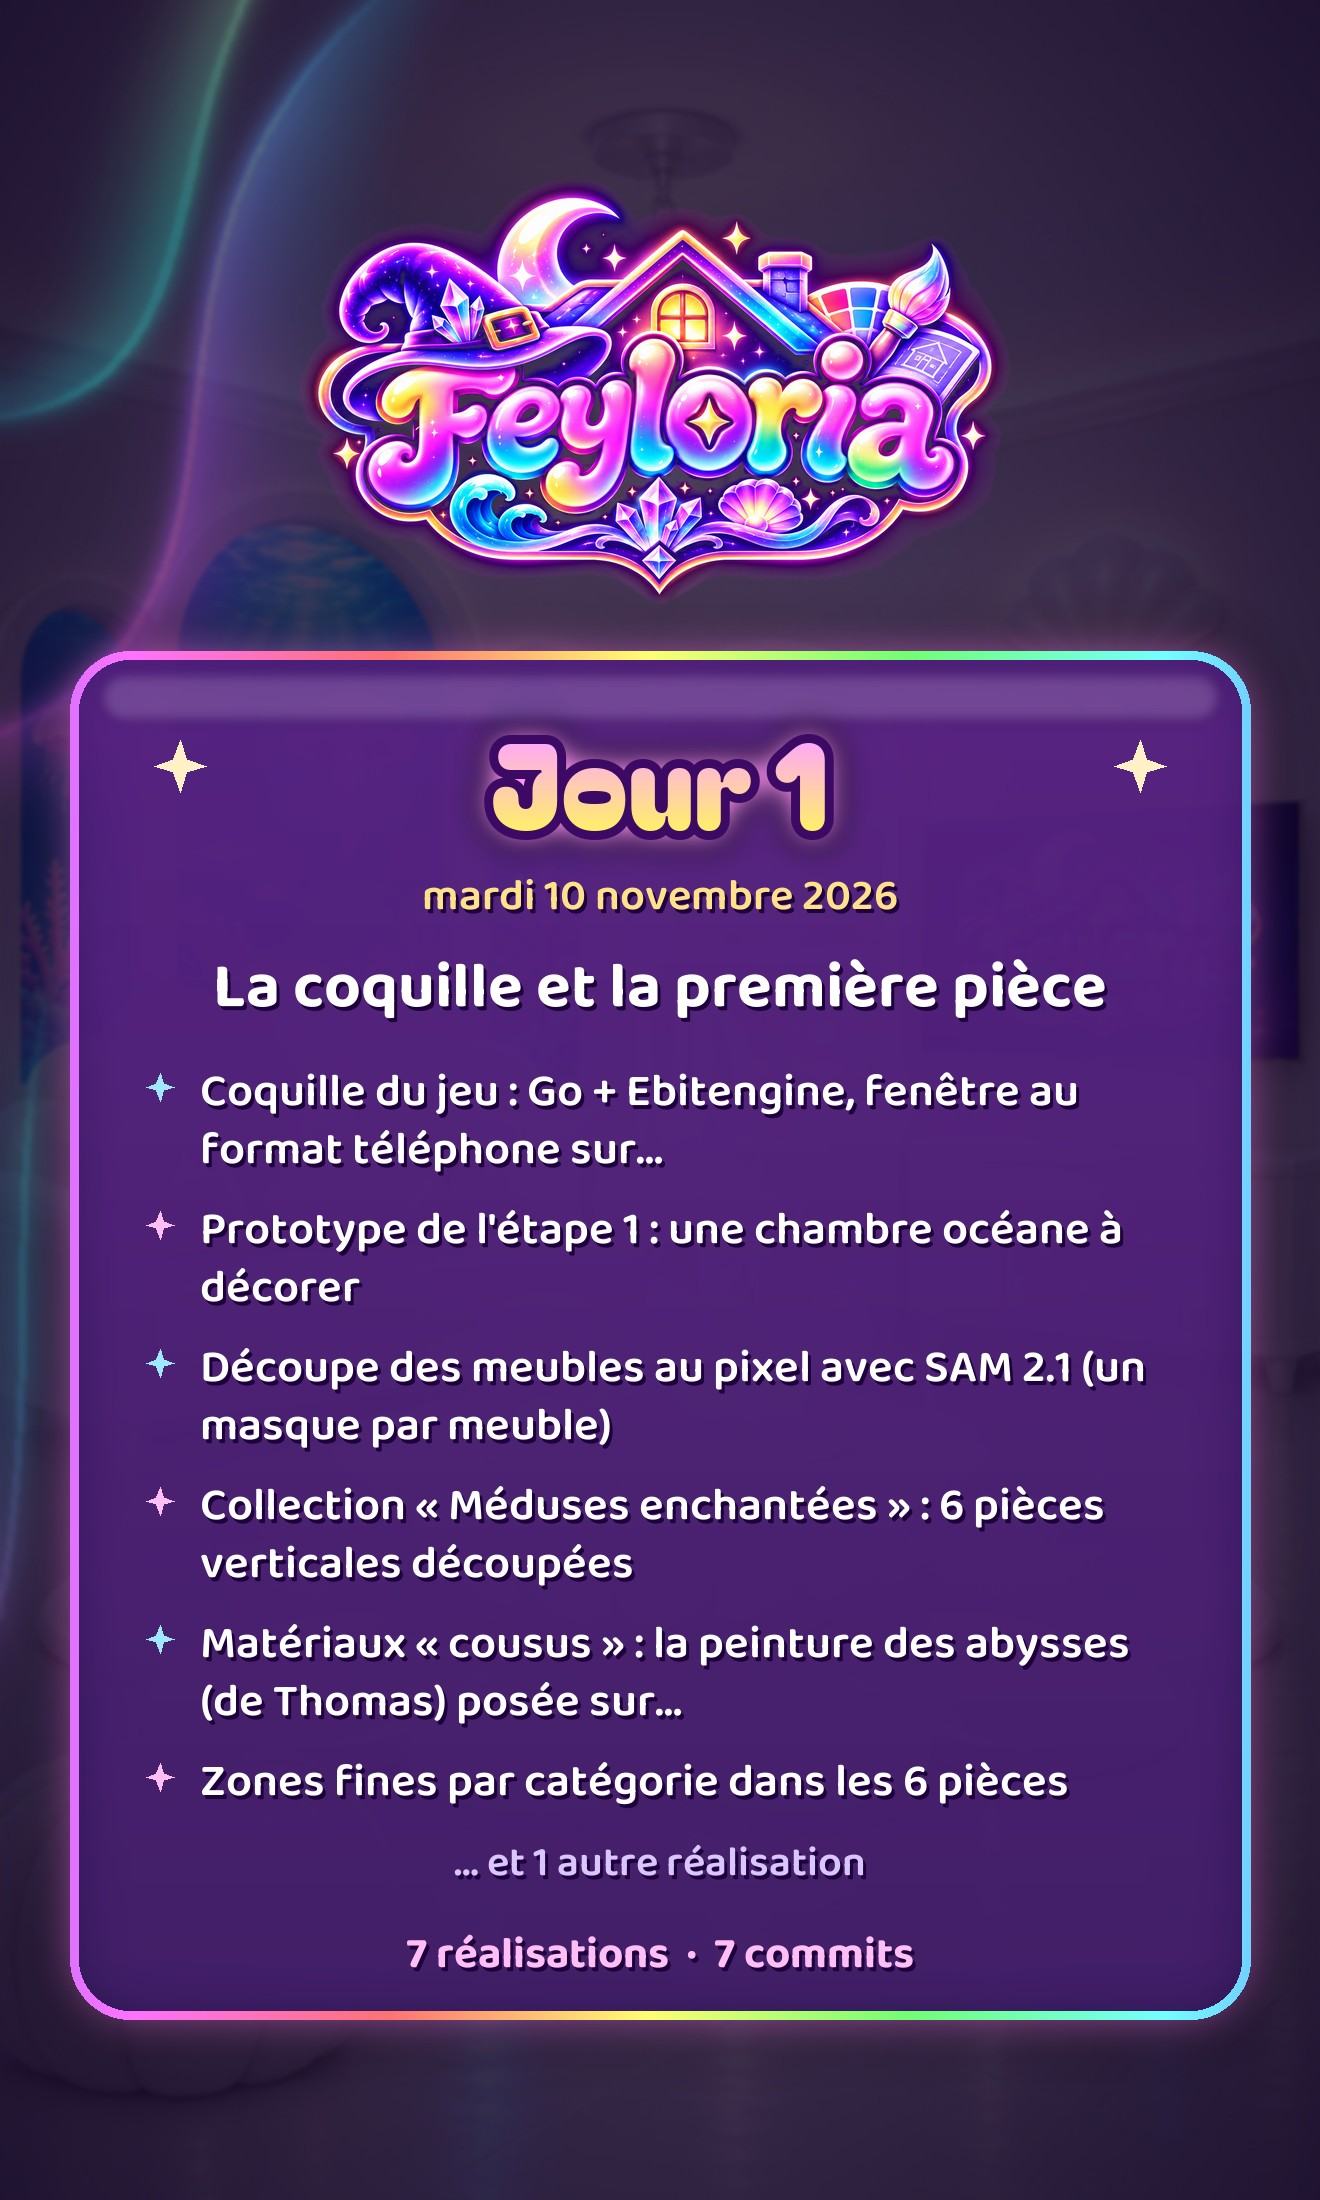
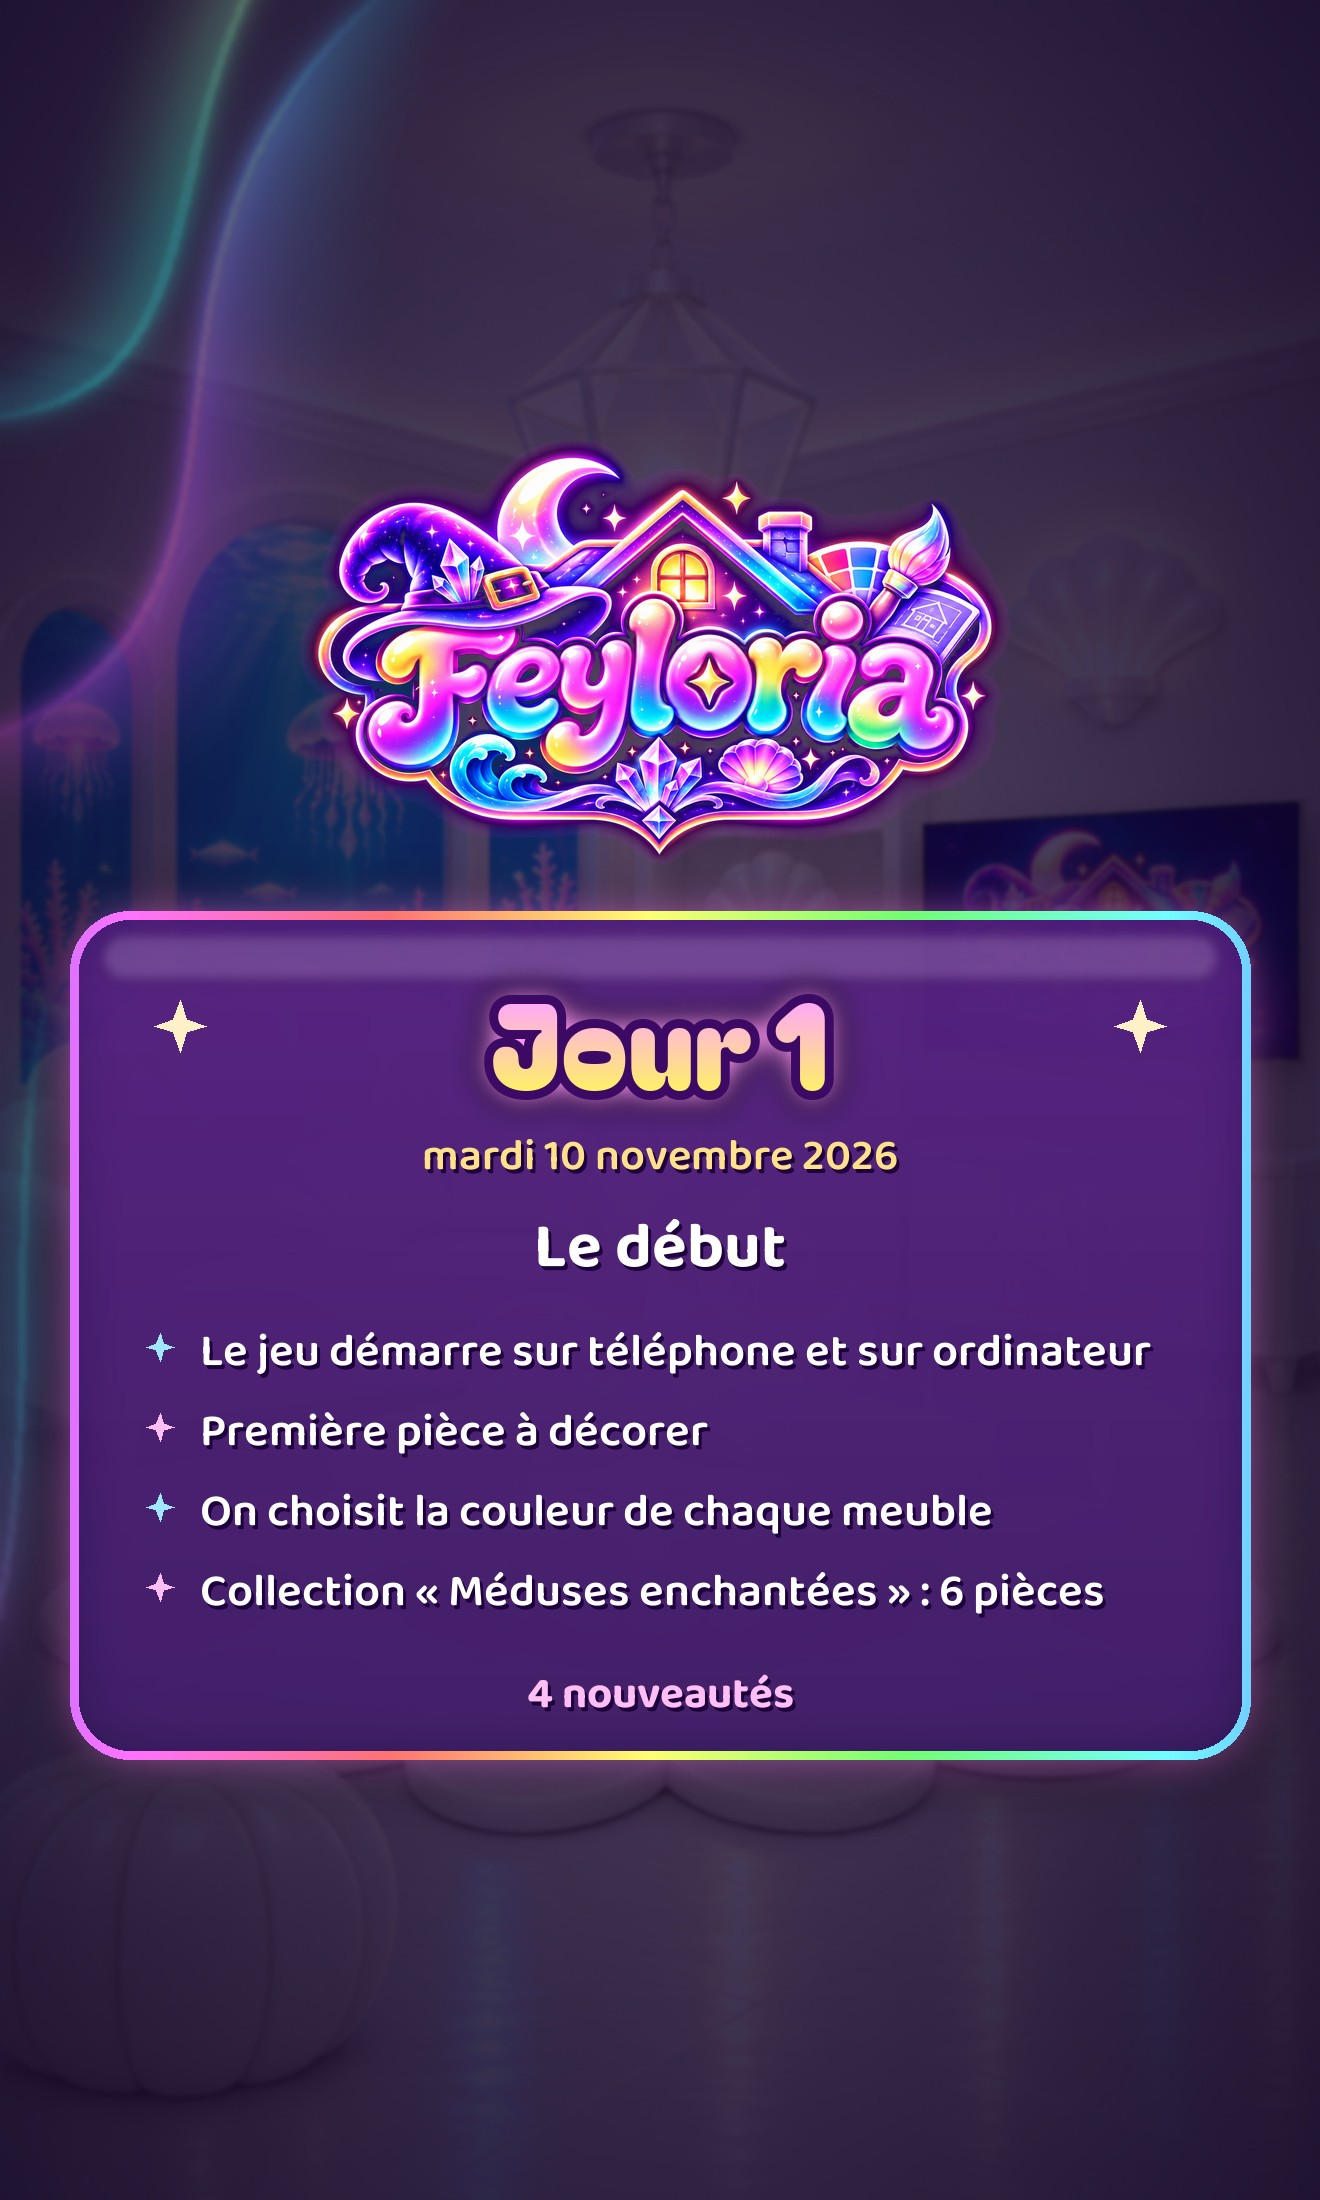
🧹 Plus de tâche planifiée sur GitHub : le journal est poussé depuis le Mac ; plus de commits sur le site

diff --git a/journal/JOURNAL.md b/journal/JOURNAL.md
@@ -1,168 +1,76 @@
 # Journal de bord de Feyloria
 
-Ce qui se fait sur le projet, jour par jour, depuis le premier commit (mardi 10 novembre 2026). Les jours suivent l'heure de l'Est. Ce fichier est public : il alimente le site de suivi (dépôt `feyloria-suivi`, mis à jour une fois par jour).
+Ce qui avance sur le jeu, jour par jour, depuis le début (mardi 10 novembre 2026). Écrit pour tout le monde : quelques mots par nouveauté, rien de technique. Ce journal alimente le site de suivi.
 
-Format, pour que le site le lise :
+## 2026-11-10 — Le début
 
-- une section par jour, `## AAAA-MM-JJ — titre du jour` ;
-- un paragraphe de résumé ;
-- `### Fait`, `### Commencé`, `### À suivre` : des puces, chacune commençant par l'heure quand on la connaît (`- 21:10 — …`) ;
-- `Commits : N` sur sa propre ligne.
-
-## 2026-11-10 — La coquille et la première pièce
-
-Le projet démarre le soir : un jeu mobile en Go avec Ebitengine, qui tourne sur macOS et iOS. Dans la même soirée, on décore déjà une première chambre océane : les meubles sont découpés au pixel, puis recolorés en gardant la nacre du rendu blanc.
+Premier soir : le jeu existe, et on peut déjà décorer une pièce.
 
 ### Fait
 
-- 21:10 — Coquille du jeu : Go + Ebitengine, fenêtre au format téléphone sur Mac, build iOS.
-- 21:51 — Prototype de l'étape 1 : une chambre océane à décorer.
-- 22:08 — Découpe des meubles au pixel avec SAM 2.1 (un masque par meuble).
-- 22:22 — Recoloration en carte de dégradé, avec la nacre du rendu blanc.
-- 23:04 — Collection « Méduses enchantées » : 6 pièces verticales découpées.
-- 23:08 — Matériaux « cousus » : la peinture des abysses (de Thomas) posée sur un meuble et ajustable au doigt.
-- 23:47 — Zones fines par catégorie dans les 6 pièces.
+- Le jeu démarre sur téléphone et sur ordinateur
+- Première pièce à décorer
+- On choisit la couleur de chaque meuble
+- Collection « Méduses enchantées » : 6 pièces
 
-Commits : 7
+## 2026-11-11 — Le Palais des méduses
 
-## 2026-11-11 — Le Palais des méduses prend forme
-
-Une journée sur la qualité de la décoration et sur l'interface. Les masques deviennent précis (un par objet, aucun débordement) et la couleur passe en OKLab. Le premier look du Palais des méduses arrive, avec ses bulles de verre, son menu et Aria. Le moteur de rendu passe au GPU, et le jeu vise les 60 images/s sur iPhone.
+La décoration devient précise et belle, et le jeu reçoit son premier look.
 
 ### Fait
 
-- 00:26 — Salon : original intact, rendu natif, couleur OKLab, masques précis ; un masque par objet.
-- 00:41 — Les pièces commencent blanches ; « Nacre » est l'original ; tout remettre en blanc.
-- 00:56 — Panneau des zones en bulles (ZonePanel), 12 zones regroupées.
-- 07:28 — Lustre méduse découpé finement (cloche, festons, tentacules).
-- 09:47 — Palette unique de 56 couleurs ; recoloration à la résolution de l'écran.
-- 10:19 — Chambre : 10 zones découpées.
-- 11:09 — Interface du projet visuel : thèmes de collection, bulles, menu et Aria.
-- 11:29 — Les pièces et la collection sont décrites par des manifestes : une pièce s'ajoute sans code.
-- 12:56 — Peintre GPU : formes arrondies par distance signée, banc de mesure.
-- 13:08 — Pièces préparées en arrière-plan, voisines prêtes avant d'y aller ; mémoire bornée.
-- 13:11 — Bus d'événements du cœur, pour brancher les succès plus tard.
-- 13:18 — Banc de mesure sur iPhone (`make ios-bench`).
-- 14:50 — Menu des couleurs v2 en plein écran, motif posé avec Valider.
-- 15:54 — Zonage avec ChatGPT et découpe automatique ; déco à l'individuel, murs et plafond réunis.
-- 17:32 — Palais des méduses : 14 pièces.
-- 23:12 — Vérification automatique des images Midjourney (format, clarté, blanc chaud, coins sombres, objets déjà colorés).
-- 23:18 — Prompt Midjourney complet à chaque fois, tiré du zonage.
-- 23:38 — Nouvelle chambre de la reine méduse (Midjourney), 22 zones.
+- Couleurs plus fidèles, sans débordement
+- Chaque pièce commence toute blanche
+- Look du Palais des méduses
+- Aria, la mascotte, apparaît
+- Jeu plus fluide sur téléphone
+- 14 pièces dans la collection
 
-Commits : 38
+## 2026-11-12 — Les matières
 
-## 2026-11-12 — Les matières et les styles
-
-Les couleurs gagnent du relief, et les matières font leur entrée : pierres, métaux, marbres, velours, mousses, bois. Elles suivent la forme des meubles, et les sols se posent en perspective. Les premiers styles « dessinés » arrivent : une pièce redessinée par l'IA d'images dans une matière qu'une texture ne peut pas imiter. Le soir, Naomi apporte la collection coquillage, qui deviendra le Palais de Nacre.
+Les meubles peuvent maintenant prendre des matières, pas seulement des couleurs.
 
 ### Fait
 
-- 00:05 — Couleurs avec du relief : contraste selon le blanc de chaque zone.
-- 00:36 — Format des pièces fixé à 3:5 (1320 × 2200), la pièce entière au-dessus du panneau.
-- 01:13 — 12 nouveaux matériaux : pierres, métaux, marbres, velours ; mousse de corail en relief.
-- 01:18 — Logo Feyloria à l'ouverture, icône de l'app.
-- 12:10 — 3 mousses (sauvage, vive, tendre), matières sans grésillement.
-- 12:52 — Sols et tapis en perspective dans les 14 pièces.
-- 13:46 — Chambre du récif : le lit dessiné en mousse par Midjourney (« Mousse vivante »).
-- 14:30 — Section Styles au menu ; Salon des vagues en hologramme, bois et pierre.
-- 15:21 — Outil « répliquer un style » : extraire, comparer et répliquer un style dessiné dans toutes les pièces.
-- 15:35 — 9 matières tirées des styles de la Salle de jeux (chrome, cuivre rosé, marbre craquelé, fourrure, nacre irisée…).
-- 16:02 — Bois flotté par catégorie : sièges, meubles, textiles et décorations ont chacun leur texture.
-- 17:53 — Salle de bain des perles, 17ᵉ pièce.
-- 18:05 — « Mes pièces » : chaque pièce soumise est gardée, à voir en grand et à télécharger dans Photos.
-- 18:55 — Textures recréées depuis les originaux en une passe (`rebuild.sh`), à leur taille réelle.
-- 20:37 — Menu des couleurs : 5 par rangée, familles, catégories repliables.
-- 20:56 — Nouveau logo à l'ouverture, nouvelle icône de l'app.
-- 22:43 — Collection coquillage de Naomi : salle de bain, salon, cuisine, salle à manger, chambre des maîtres, bureau.
+- Bois, pierre, marbre, velours, mousse, métal
+- Sols et tapis en perspective
+- Premiers styles dessinés (hologramme, bois flotté…)
+- Logo et icône du jeu
+- « Mes pièces » : on garde ses créations
+- Nouvelle collection : le Palais de Nacre
 
-Commits : 47
+## 2026-11-13 — Tout le jeu autour
 
-## 2026-11-13 — Le jeu autour de la décoration
-
-La plus grosse journée. Autour de la décoration, tout le jeu se construit :
-- défis quotidiens sur 14 jours ;
-- boutique, éclats et géodes, pass du mois et abonnement VIP ;
-- profil, avatars et Aria ;
-- collection de cartes, équipes du monde ;
-- utilisations limitées des styles.
-
-Le thème Nuit magique de Thomas arrive, puis la direction visuelle Aurore. Le Palais de Nacre reçoit une quinzaine de styles exclusifs dessinés. Le soir, le profil du joueur devient un vrai coffre scellé et sauvegardé à chaque achat, et les pages s'assemblent à partir de composants communs.
+Grosse journée : tout ce qui entoure la décoration arrive.
 
 ### Fait
 
-- 00:54 — Page Défis : une carte par pièce avec JOUER ; collection Palais de Nacre et sa couleur holographique.
-- 01:25 — Boutique (factice) : paquets d'éclats et offres groupées.
-- 12:08 — Profil : avatar holographique, niveau, statistiques, Mes pièces ; photo de profil avec modération.
-- 14:47 — Style Palais irisé, tiré de l'image de référence.
-- 14:54 — Palettes premium en boutique et dans le pass VIP.
-- 14:58 — Aria, la mascotte, son coffret et ses 5 looks dans le profil.
-- 15:04 — Pass « Réussite du Mois » : 50 niveaux, VIP et gratuit, section Gold.
-- 15:32 — Collection de cartes (paquets, séries, prix) et Équipes du monde, avec leurs défis de la semaine.
-- 16:58 — Thème Nuit magique de Thomas : ciel étoilé, néons, polices Baloo 2 et Bagel Fat One.
-- 17:01 — Les gemmes deviennent des géodes.
-- 17:44 — Se connecter avec Apple, profil dans iCloud (à activer).
-- 18:09 — Utilisations des styles : 4 au départ, rachetables en éclats, dépensées seulement à la soumission.
-- 18:20 — Défis sur 14 jours, un par jour, minuit heure de l'Est ; pack de fin de collection pour les défis manqués.
-- 19:47 — Tableau des récompenses en 5 paliers, avec un effet animé sur chacun.
-- 20:21 — Interface plus grande partout (largeur logique 500).
-- 20:37 — Police Kavoon pour le Palais de Nacre.
-- 20:54 — Avatars du jeu à la place des photos (Aria Trans par défaut, puis Sirya, Warma).
-- 21:00 — Styles dessinés exclusifs : Classique réaliste, Forêt enchantée, Palais de givre, Sirène, Bonbon gommeux, Goth velours, Queer, Marin bleu, Industriel violet, Douceur tamisée, Automne, Pierre glacée, Cozy bois, Nature douce, Luxe intense, Château de pierre, Rouge velours.
-- 23:07 — Look nacré clair du Palais de Nacre.
-- 23:22 — Direction Aurore sur la page Défis (fond vivant, boutons en relief, carte irisée, menu ondulé), « Réduire les animations ».
-- 22:26 — Profil du joueur : tout ce qu'il possède, scellé (HMAC) et sauvegardé à chaque achat.
-- 22:42 — Composants d'interface communs (cartes, boutons, tons), boutons qui s'enfoncent sous le doigt.
+- Un défi par jour pendant 14 jours
+- Boutique, éclats et géodes
+- Pass du mois et abonnement VIP
+- Profil, avatars et looks d'Aria
+- Collection de cartes
+- Équipes du monde
+- Une quinzaine de styles exclusifs
+- Nouveau look : Aurore
 
-Commits : 92
+## 2026-11-14 — Le multijoueur
 
-## 2026-11-14 — Le serveur dans le jeu, le multijoueur jouable
-
-Dans la nuit, l'interface Aurore s'étend à toutes les pages ; les créatures du Palais de Nacre et leurs cartes officielles arrivent.
-
-Le matin, les specs de peaufinage des systèmes sont approuvées, et les lots 1 à 5 sont faits dans la journée :
-- le serveur complet roule dans l'app, écrit en commandes Lambda pour passer sur AWS plus tard sans rien réécrire ;
-- les classements sont en pourcentages, avec une population de joueurs simulés ;
-- les duels se votent en paquets ;
-- les likes sociaux ont leur budget quotidien ;
-- l'accueil propose en ligne ou hors ligne, et les parties hors ligne s'exportent et s'importent ;
-- les achats sont vérifiés.
-
-L'après-midi est consacrée à la fluidité (60 images/s sur l'élan de la boutique) et à l'ouverture de ce journal de bord.
+Le jeu devient multijoueur, et on ouvre ce journal.
 
 ### Fait
 
-- 00:17 — Créatures Darium, Nacrelle, Floraé, Sylirus, Fernestra ; avatar Aria Galaxy.
-- 00:25 — Interface Aurore sur toutes les pages ; le Palais de Nacre garde son look nacré.
-- 00:38 — Les 12 cartes officielles du Palais de Nacre.
-- 00:54 — Thème global Aurore : cadres lumineux, boutons en verre bombé.
-- 07:44 — `core` : jours en heure de l'Est, paliers en pourcentages (top 1, 5, 10, 25 %), note de qualité d'une pièce, joueurs simulés déterministes, budget de likes.
-- 07:57 — Serveur interne en commandes Lambda : base locale signée, duels en paquets de 20, likes, classements, achats vérifiés (App Store, Google Play), export hors ligne ; rattrapage de 5 jours avec 10 000 joueurs simulés en 0,2 s.
-- 08:07 — La partie du téléphone : profil dans la base du serveur, migration de l'ancienne sauvegarde, accueil « Jouer en ligne » / « Jouer hors ligne ».
-- 08:15 — Écrans du cycle multijoueur : classements, duels, palier en direct, résultats et récompenses, likes.
-- 08:17 — iOS : identifiant et jeton dans le Keychain, StoreKit 2, partage et import de parties.
-- 09:09 — Boutique fluide sur son élan (de 32 à 60 images/s).
-- 09:12 — Profil : l'en-tête se replie en résumé quand on fait défiler ses pièces.
-- 09:13 — Outil de calibrage : des journées simulées avec 1 à 5000 vrais joueurs.
-- 09:16 — Éclats et géodes dessinés une fois par taille.
-- 10:13 — Aurore plus fidèle à la maquette : courants en S autour du logo, cadres roses en relief, onglets pastel.
-- 10:25 — La plaque du menu et les étincelles dessinées une fois : un tiers de moins de dessin par page.
-- 10:39 — Cartes pleine image, série « Merveilles », nacre sur la page de décoration.
-- 10:52 — Écran de chargement : le jeu se construit en arrière-plan sous le logo.
-- 10:59 — Palais de Nacre marin : perles, volutes de vagues, étoiles de mer, coquillages.
-- 11:10 — Une carte touchée jaillit de sa place en très grand, puis y retourne.
-- 11:45 — Journal de bord du projet : ce fichier, tenu à chaque action commencée ou terminée.
-- 11:57 — Site de suivi public, au look Aurore du jeu : morialkar.github.io/feyloria-suivi (Astro, GitHub Pages, une page par jour).
-- 12:20 — Une image par jour pour le site, d'après le panneau « Petite note » de Thomas : une pièce du jeu assombrie, le logo, « Jour N », le titre du jour et ses faits marquants.
-
-### Commencé
-
-- Mise à jour quotidienne automatique du site à partir de ce journal.
+- Créatures du Palais de Nacre et leurs cartes
+- Look Aurore partout
+- Multijoueur conçu : classements, duels, likes
+- Jouer en ligne ou hors ligne
+- Achats prêts
+- Jeu plus fluide
+- Écran de chargement
+- Journal de bord et site de suivi
 
 ### À suivre
 
-- Calibrage des joueurs simulés : les vrais joueurs dépassent presque partout la cible « top 25 % une fois sur deux », et les récompenses montent à environ 1300 éclats par jour. À régler avec l'économie.
-- Hébergement du serveur sur AWS (lots 6 et 7 des specs).
-- Écrans du cycle multijoueur : design à faire (minimum fonctionnel pour l'instant).
-
-Commits : 34
+- Régler les récompenses
+- Mettre le multijoueur en ligne
+- Dessiner les écrans du multijoueur

diff --git a/README.md b/README.md
@@ -6,9 +6,7 @@ Site statique fait avec [Astro](https://astro.build), au look Aurore du jeu.
 
 ## Comment il se met à jour
 
-- Le journal vit dans le dépôt du jeu (privé), dans `JOURNAL.md` ; ses images du jour dans `journal/AAAA-MM-JJ.jpg` (ou `.png`, `.webp`).
-- Une fois par jour (6 h, heure de l'Est), et à chaque push ici, le workflow `Journal` recopie ces fichiers (`scripts/sync-journal.sh`, par une clé de déploiement en lecture seule : le secret `FEYLORIA_DEPLOY_KEY`), garde la nouvelle version dans `journal/` et `public/jours/`, construit le site et le publie sur GitHub Pages.
-- On peut aussi le lancer à la main : onglet Actions → Journal → Run workflow.
+Le journal vit dans le dépôt du jeu (privé) : `JOURNAL.md`, et une image par jour dans `journal/`. Une fois par jour, le Mac de l'équipe lance `tools/journal/publier.sh` (dans le dépôt du jeu) : il refait l'image du jour, recopie le journal et les images ici (`journal/`, `public/jours/`) et pousse. Chaque push fait construire et publier le site par GitHub Actions (on peut aussi le relancer à la main : Actions → Journal → Run workflow).
 
 ## Développer
 
@@ -16,7 +14,6 @@ Site statique fait avec [Astro](https://astro.build), au look Aurore du jeu.
 npm install
 npm run dev        # http://localhost:4321/feyloria-suivi/
 npm run build      # dans dist/
-npm run sync       # recopie le journal du jeu (accès au dépôt privé requis)
 ```
 
 - `src/lib/journal.ts` lit `journal/JOURNAL.md` : une section par jour (`## AAAA-MM-JJ — titre`), un résumé, puis `### Fait`, `### Commencé`, `### À suivre` et `Commits : N`.
